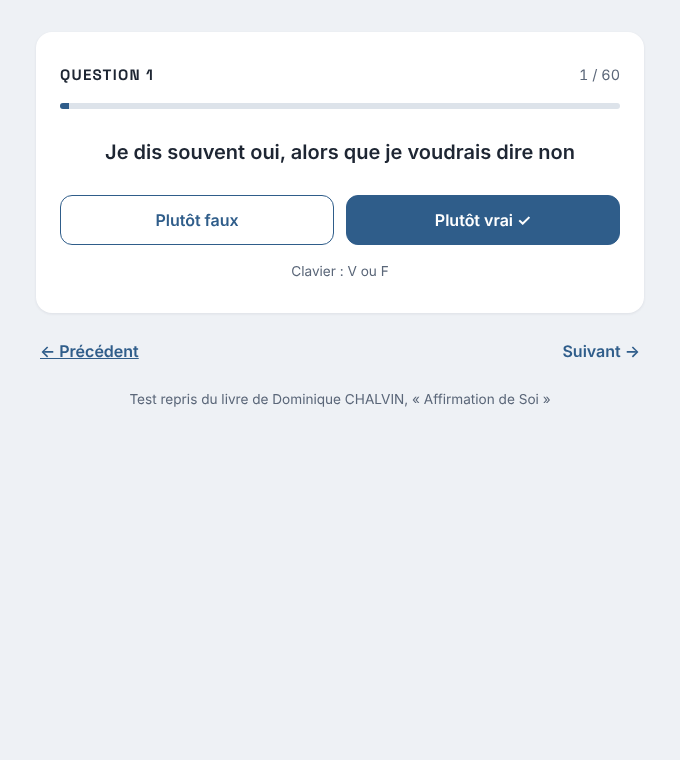
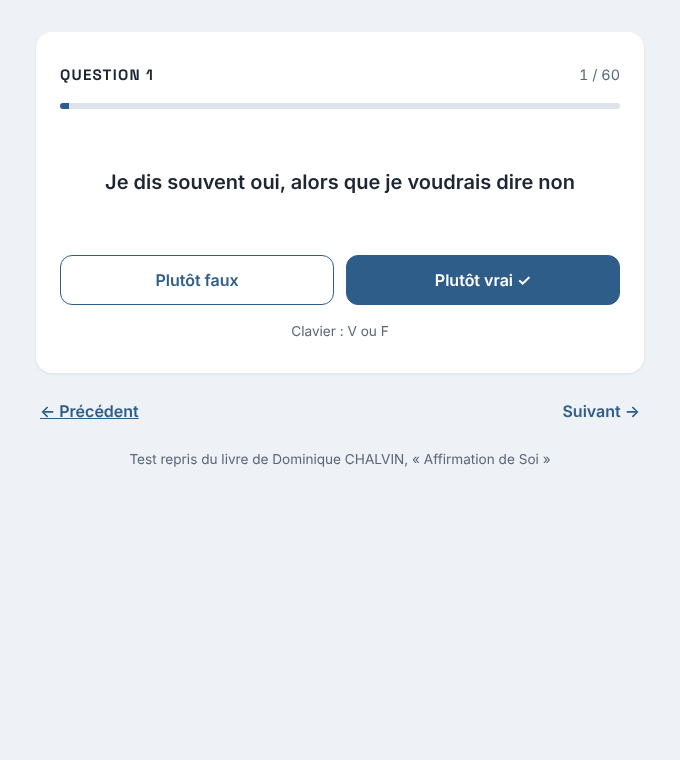
fix: keep answer buttons in place between questions
The question text reserves the height of the longest of the 60 questions at
the current width, so the answer buttons no longer move under the cursor.

diff --git a/src/ui/slider.js b/src/ui/slider.js
@@ -235,5 +235,44 @@ export function startSlider(root, content, questions) {
     el.answerFalse.addEventListener("click", () => answer(false));
     el.answerTrue.addEventListener("click", () => answer(true));
 
+    /**
+     * Réserve à la question la hauteur de la plus longue des 60, à la largeur actuelle :
+     * les boutons de réponse restent au même endroit d'une question à l'autre.
+     */
+    function reserveQuestionHeight() {
+        const probe = el.questionText.cloneNode();
+        probe.removeAttribute("id");
+        probe.hidden = false;
+        probe.setAttribute("aria-hidden", "true");
+        Object.assign(probe.style, {
+            position: "absolute",
+            visibility: "hidden",
+            minHeight: "0",
+            width: `${el.questionText.parentElement.clientWidth - paddingX(el.questionText.parentElement)}px`,
+        });
+        el.questionText.parentElement.append(probe);
+        let tallest = 0;
+        for (const question of questions) {
+            probe.textContent = frenchSpacing(question.text);
+            tallest = Math.max(tallest, probe.getBoundingClientRect().height);
+        }
+        probe.remove();
+        el.questionText.style.minHeight = `${Math.ceil(tallest)}px`;
+    }
+
+    function paddingX(element) {
+        const style = getComputedStyle(element);
+        return parseFloat(style.paddingLeft) + parseFloat(style.paddingRight);
+    }
+
+    let resizeFrame = 0;
+    window.addEventListener("resize", () => {
+        cancelAnimationFrame(resizeFrame);
+        resizeFrame = requestAnimationFrame(reserveQuestionHeight);
+    });
+
     render();
+    reserveQuestionHeight();
+    // Les polices changent la largeur du texte : on remesure une fois chargées
+    document.fonts?.ready.then(reserveQuestionHeight);
 }

diff --git a/src/styles/main.css b/src/styles/main.css
@@ -108,7 +108,11 @@ h1 {
     margin: 0;
 }
 
+/* Hauteur réservée par slider.js : le texte est centré, les boutons ne bougent pas */
 .question-text {
+    display: flex;
+    align-items: center;
+    justify-content: center;
     font-size: 1.25rem;
     font-weight: 600;
     text-align: center;

diff --git a/CHANGELOG.md b/CHANGELOG.md
@@ -5,6 +5,12 @@ Format : [Keep a Changelog](https://keepachangelog.com/fr/1.1.0/), versions : [S
 
 ## [Non publié]
 
+## [0.4.1] - 2026-11-27
+
+### Corrigé
+
+- Les boutons « Plutôt faux » et « Plutôt vrai » restent au même endroit d'une question à l'autre : la question occupe toujours la hauteur de la plus longue, texte centré.
+
 ## [0.4.0] - 2026-11-27
 
 ### Ajouté
@@ -83,7 +89,8 @@ Format : [Keep a Changelog](https://keepachangelog.com/fr/1.1.0/), versions : [S
 
 - `results.html` et `results.js`, qui ne fonctionnaient pas ; leurs textes sont conservés dans `src/data/content.json` pour la v0.3.0.
 
-[Non publié]: https://github.com/VincentLesniak/AssertivenessProject/compare/v0.4.0...HEAD
+[Non publié]: https://github.com/VincentLesniak/AssertivenessProject/compare/v0.4.1...HEAD
+[0.4.1]: https://github.com/VincentLesniak/AssertivenessProject/compare/v0.4.0...v0.4.1
 [0.4.0]: https://github.com/VincentLesniak/AssertivenessProject/compare/v0.3.0...v0.4.0
 [0.3.0]: https://github.com/VincentLesniak/AssertivenessProject/compare/v0.2.0...v0.3.0
 [0.2.0]: https://github.com/VincentLesniak/AssertivenessProject/compare/v0.1.0...v0.2.0
